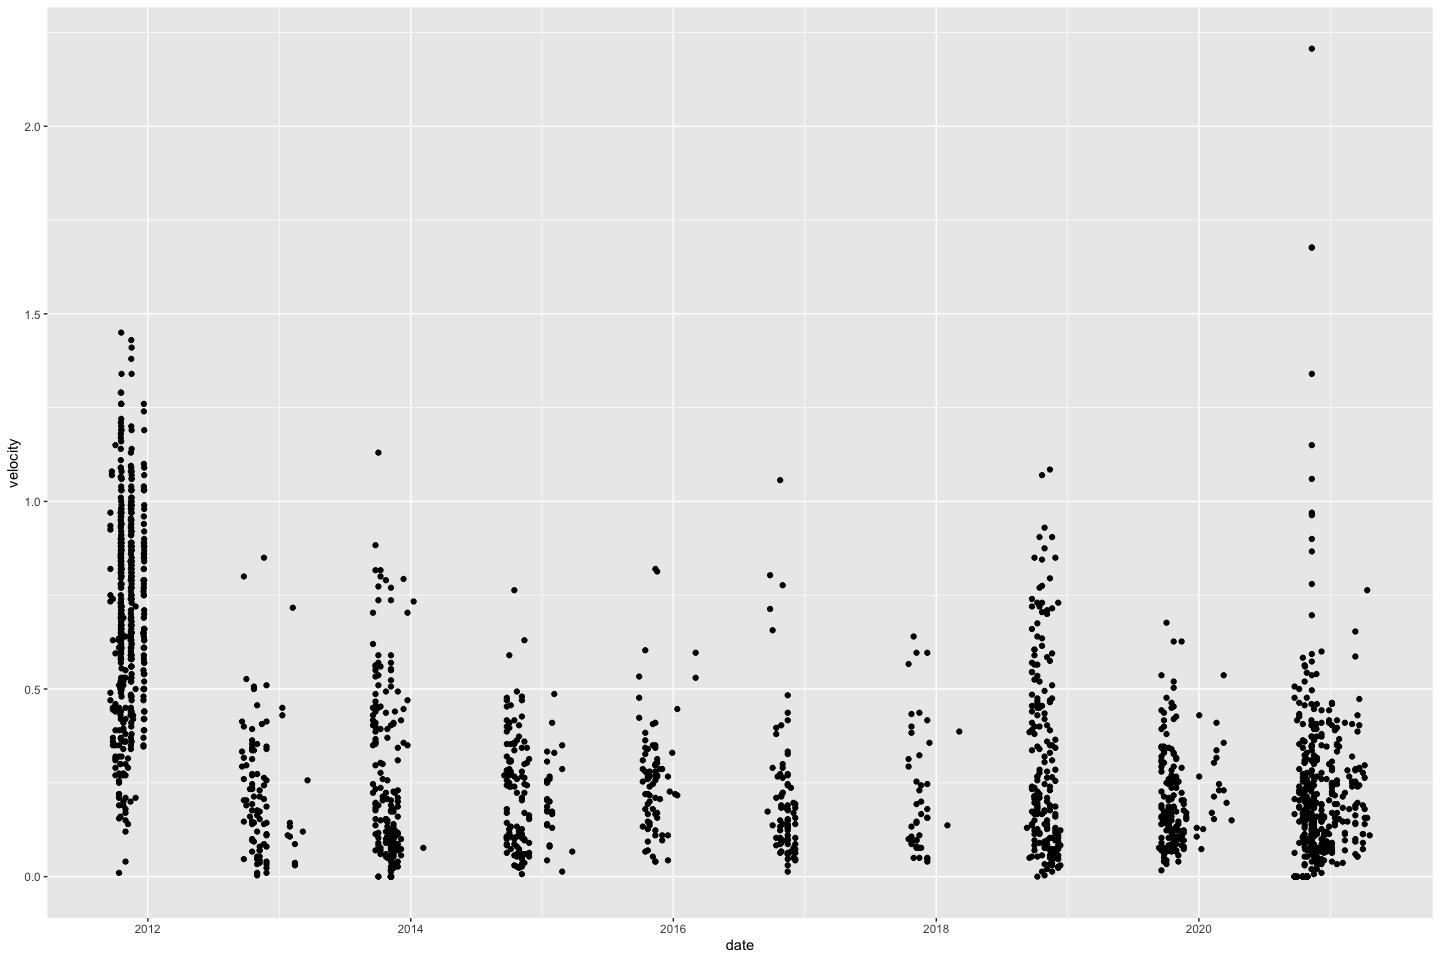
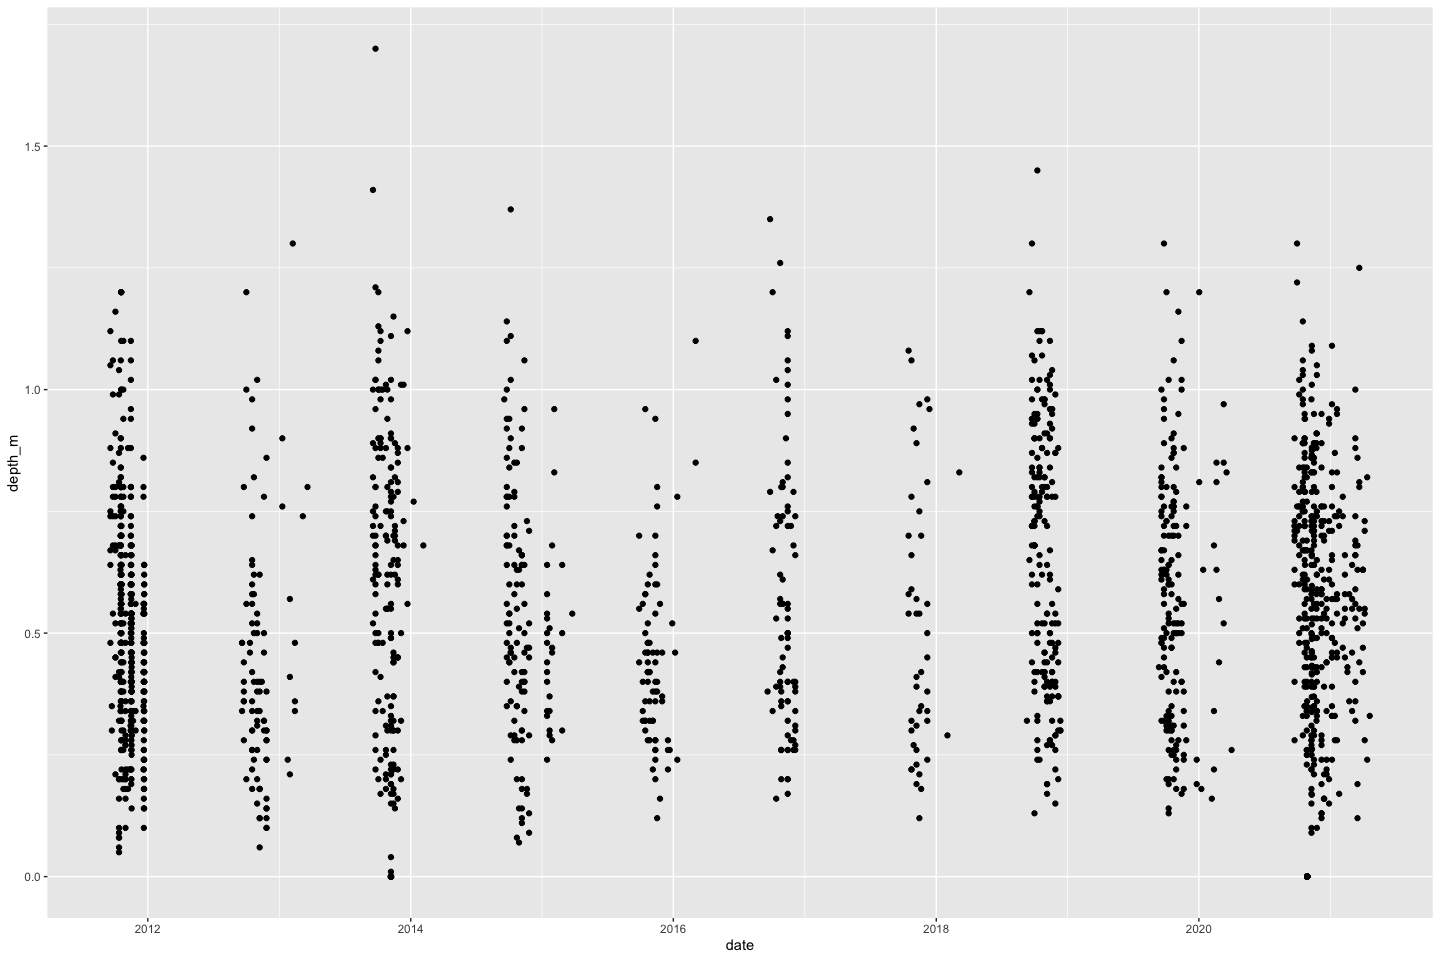
edits to pull data from google cloud so rmd will run

diff --git a/data-raw/qc-markdowns/adult-holding-redd-and-carcass-surveys/yuba-river/yuba-river-redd-survey-qc-checklist.md b/data-raw/qc-markdowns/adult-holding-redd-and-carcass-surveys/yuba-river/yuba-river-redd-survey-qc-checklist.md
@@ -15,18 +15,18 @@ Maddee Rubenson
 primarily during October - December. The number of samples per month is
 summarized below.
 
-- January: 75
-- February: 34
-- March: 40
-- April: 15
-- May: 0
-- June: 0
-- July: 0
-- August: 0
-- September: 174
-- October: 759
-- November: 639
-- December: 188
+-   January: 75
+-   February: 34
+-   March: 40
+-   April: 15
+-   May: 0
+-   June: 0
+-   July: 0
+-   August: 0
+-   September: 174
+-   October: 759
+-   November: 639
+-   December: 188
 
 **Sampling Location:**
 
@@ -40,8 +40,8 @@ Any additional info?
 ## Access Cloud Data
 
 ``` r
-sheets <- readxl::excel_sheets('yuba_Redd data request Aug2022.xlsx')
-raw_yuba_redd <- readxl::read_excel('yuba_Redd data request Aug2022.xlsx')
+sheets <- readxl::excel_sheets(here::here('data-raw', 'qc-markdowns', 'adult-holding-redd-and-carcass-surveys', 'yuba-river/yuba_Redd_data_request_Aug2022.xlsx'))
+raw_yuba_redd <- readxl::read_excel(here::here('data-raw', 'qc-markdowns', 'adult-holding-redd-and-carcass-surveys', 'yuba-river/yuba_Redd_data_request_Aug2022.xlsx'))
 ```
 
 Read in data from google cloud, glimpse raw data and domain description
@@ -213,7 +213,7 @@ ggplot(data = all_yuba_redd) +
   geom_point(aes(x = date, y = depth_m))
 ```
 
-![](yuba-river-redd-survey-qc-checklist_files/figure-gfm/unnamed-chunk-6-1.png)<!-- -->
+![](yuba-river-redd-survey-qc-checklist_files/figure-gfm/unnamed-chunk-7-1.png)<!-- -->
 
 **Numeric Summary of velocity**
 
@@ -222,7 +222,7 @@ ggplot(data = all_yuba_redd) +
   geom_point(aes(x = date, y = velocity))
 ```
 
-![](yuba-river-redd-survey-qc-checklist_files/figure-gfm/unnamed-chunk-7-1.png)<!-- -->
+![](yuba-river-redd-survey-qc-checklist_files/figure-gfm/unnamed-chunk-8-1.png)<!-- -->
 
 **Numeric Summary of num_of_fish_on_redd**
 
@@ -231,7 +231,7 @@ ggplot(data = all_yuba_redd) +
   geom_jitter(aes(x = date, y = num_of_fish_on_redd))
 ```
 
-![](yuba-river-redd-survey-qc-checklist_files/figure-gfm/unnamed-chunk-8-1.png)<!-- -->
+![](yuba-river-redd-survey-qc-checklist_files/figure-gfm/unnamed-chunk-9-1.png)<!-- -->
 **NA and Unknown Values**
 
 Provide a stat on NA or unknown values
@@ -283,7 +283,7 @@ Fix inconsistencies with spelling, capitalization, and abbreviations.
 **Create lookup rda for \[variable\] encoding:**
 
 ``` r
-save(all_yuba_redd, file = '../../../../data/redd-carcass-holding/yuba_redd.rda')
+save(all_yuba_redd, file = here::here('data/redd-carcass-holding/yuba_redd.rda'))
 ```
 
 **NA and Unknown Values**
@@ -293,7 +293,31 @@ save(all_yuba_redd, file = '../../../../data/redd-carcass-holding/yuba_redd.rda'
 ## Save cleaned data back to google cloud
 
 ``` r
-# Write to google cloud 
-write_csv(all_yuba_redd, '../../../../data/redd-carcass-holding/yuba_redd.csv')
-# Name file [watershed]_[data type].csv
+f <- function(input, output) write_csv(input, file = output)
+
+gcs_upload(all_yuba_redd,
+           object_function = f,
+           type = "csv",
+           name = "adult-holding-redd-and-carcass-surveys/yuba-river/data/2yuba_redd.csv",
+           predefinedAcl = "bucketLevel")
 ```
+
+    ## ℹ 2022-11-29 13:32:28 > File size detected as  170.9 Kb
+
+    ## ==Google Cloud Storage Object==
+    ## Name:                adult-holding-redd-and-carcass-surveys/yuba-river/data/2yuba_redd.csv 
+    ## Type:                csv 
+    ## Size:                170.9 Kb 
+    ## Media URL:           https://www.googleapis.com/download/storage/v1/b/jpe-dev-bucket/o/adult-holding-redd-and-carcass-surveys%2Fyuba-river%2Fdata%2F2yuba_redd.csv?generation=1669757548565815&alt=media 
+    ## Download URL:        https://storage.cloud.google.com/jpe-dev-bucket/adult-holding-redd-and-carcass-surveys%2Fyuba-river%2Fdata%2F2yuba_redd.csv 
+    ## Public Download URL: https://storage.googleapis.com/jpe-dev-bucket/adult-holding-redd-and-carcass-surveys%2Fyuba-river%2Fdata%2F2yuba_redd.csv 
+    ## Bucket:              jpe-dev-bucket 
+    ## ID:                  jpe-dev-bucket/adult-holding-redd-and-carcass-surveys/yuba-river/data/2yuba_redd.csv/1669757548565815 
+    ## MD5 Hash:            WEUnceZtCsPog7+iqodnMw== 
+    ## Class:               STANDARD 
+    ## Created:             2022-11-29 21:32:28 
+    ## Updated:             2022-11-29 21:32:28 
+    ## Generation:          1669757548565815 
+    ## Meta Generation:     1 
+    ## eTag:                CLeqrMyr1PsCEAE= 
+    ## crc32c:              wjWppQ==
